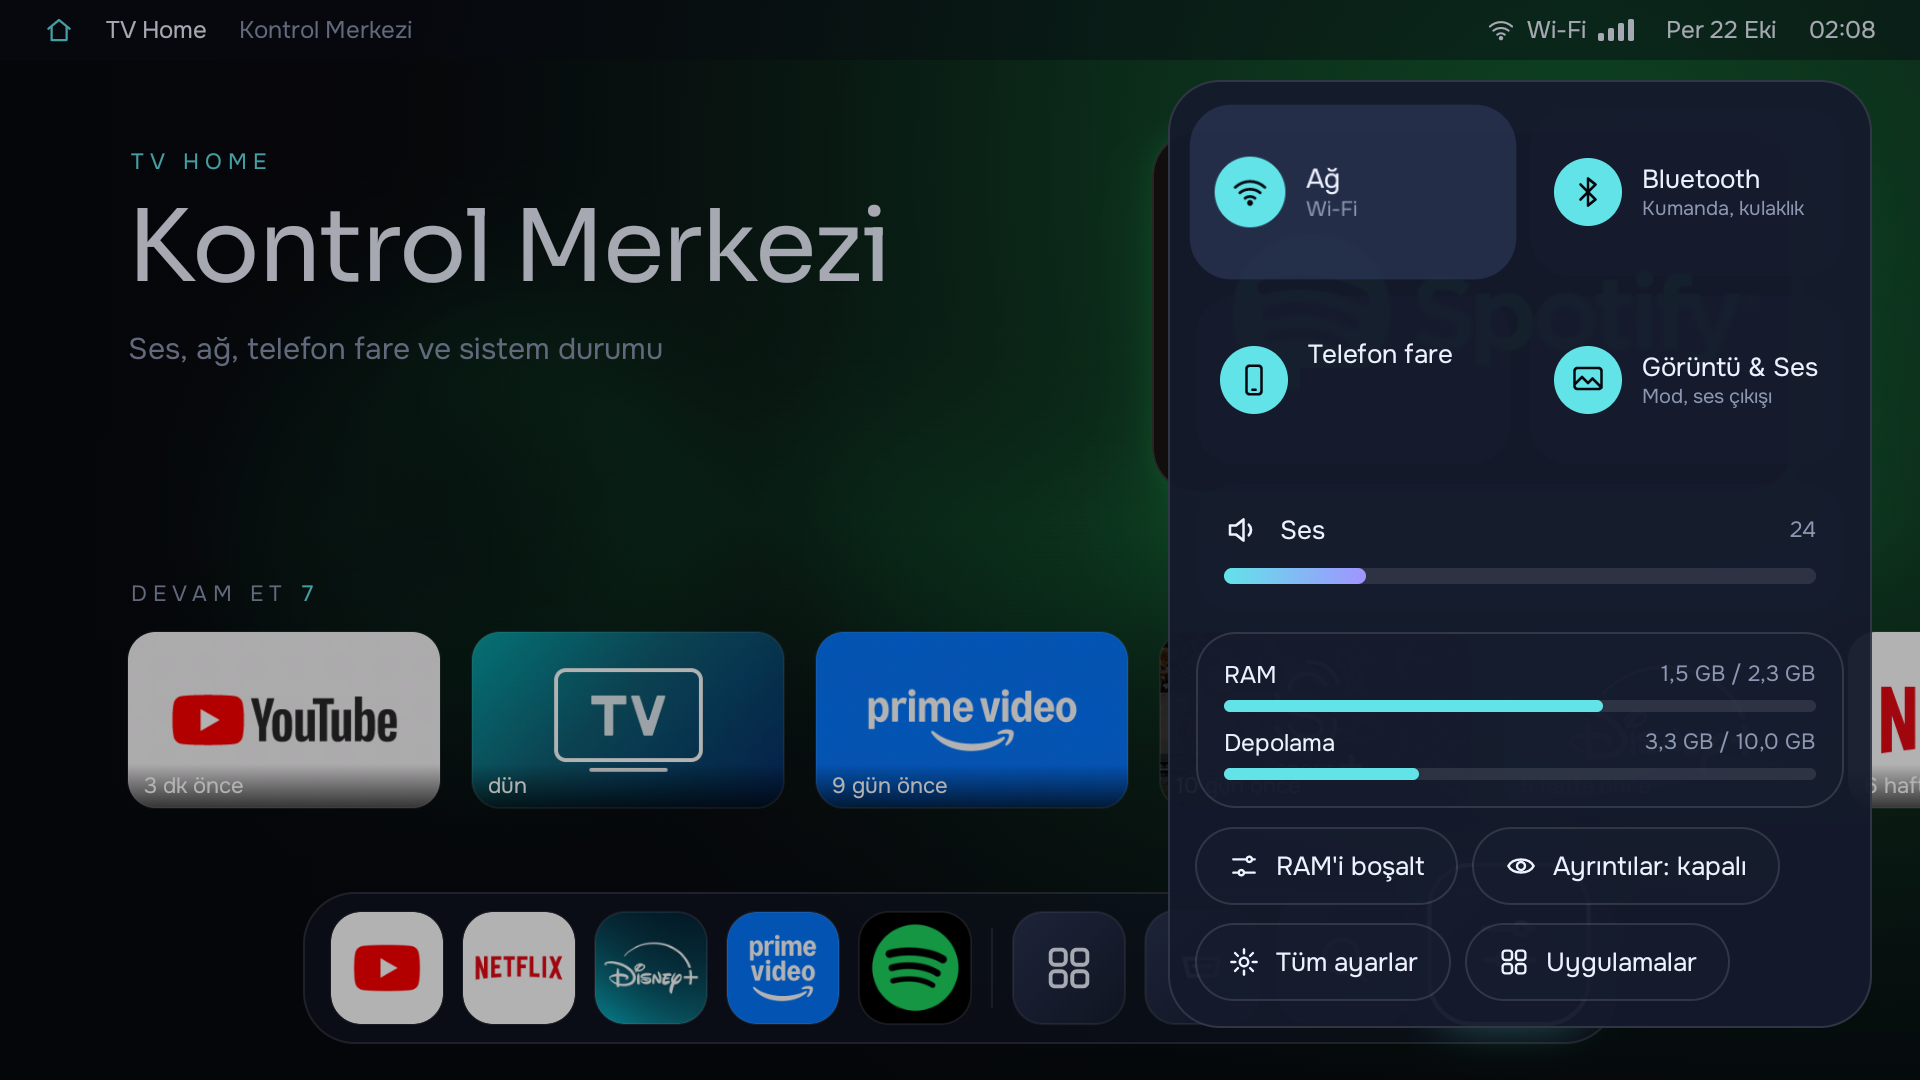
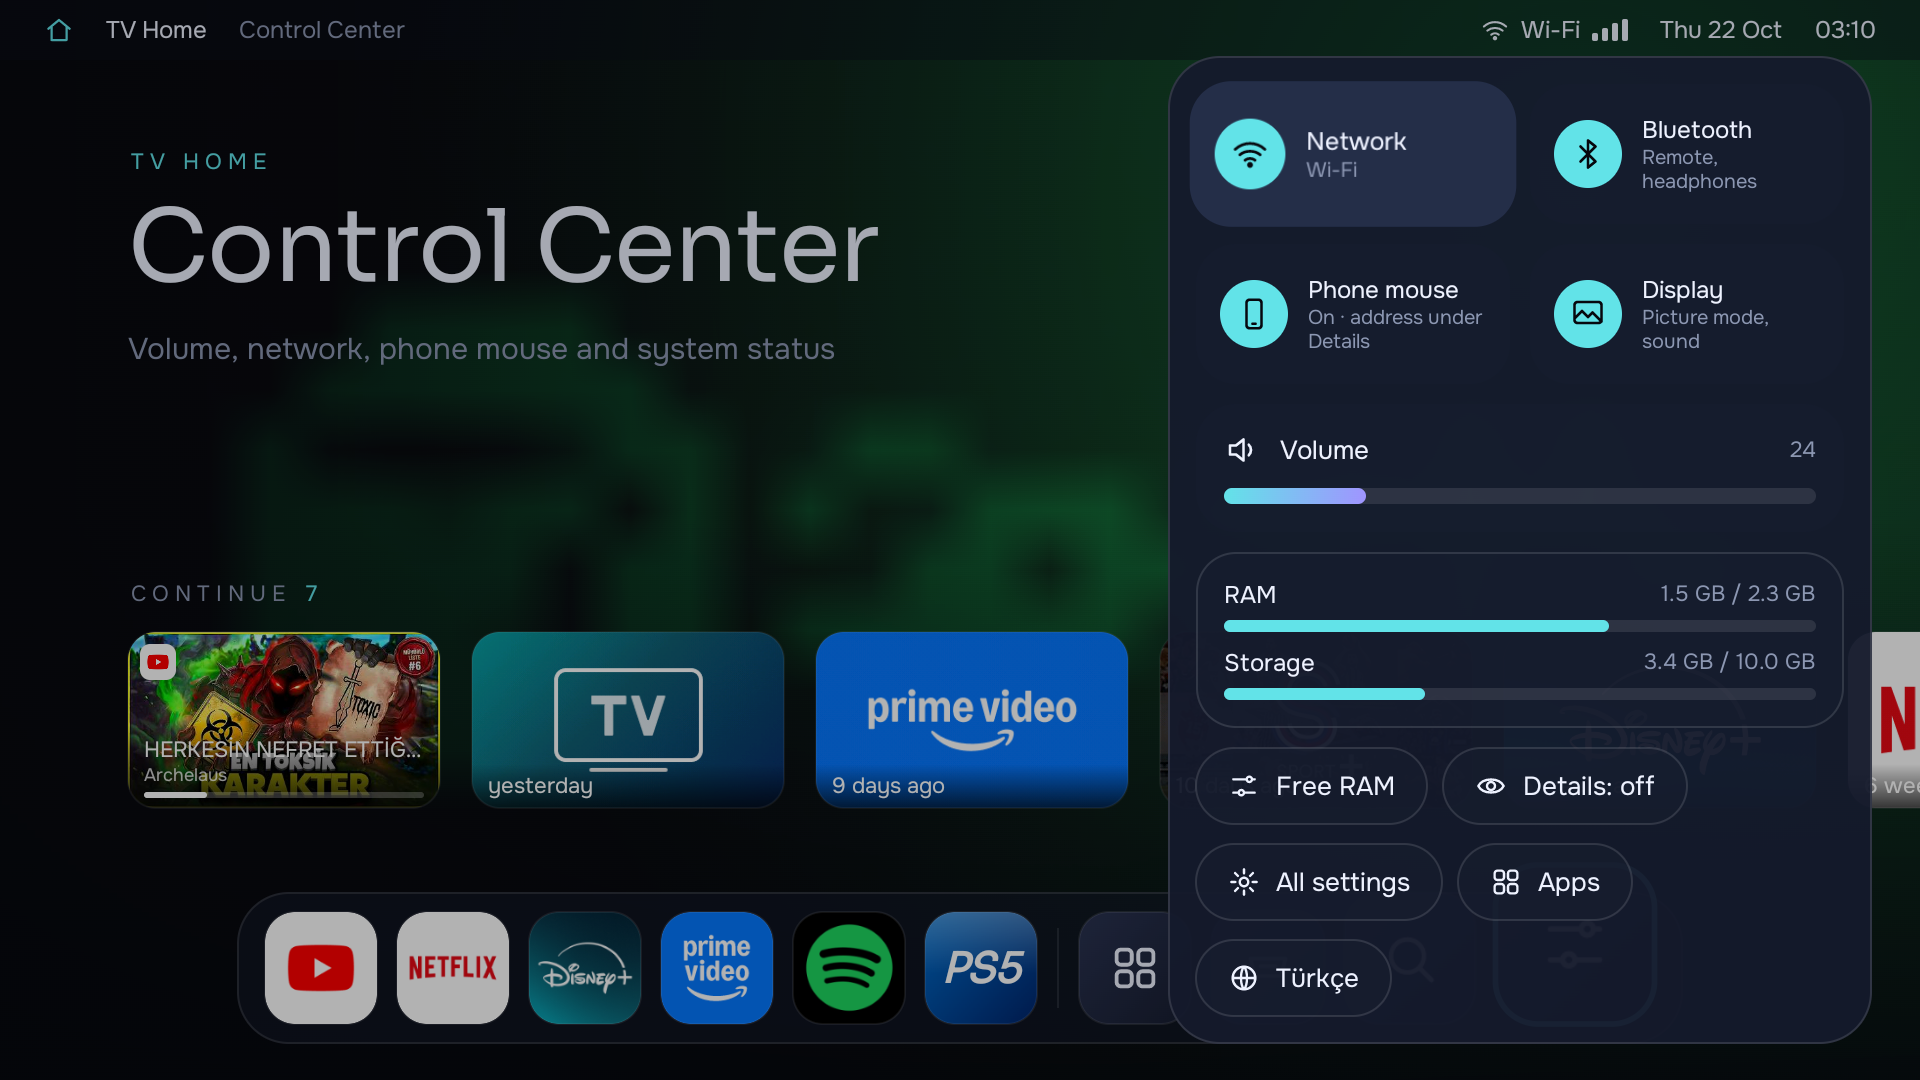
Add demo GIF and English screenshots; fit Control Center on screen
- README opens with a 22 s demo recorded on the TV
- Screenshots retaken with the English UI
- Control Center: language switch on its own row, shorter tiles so the panel fits 1080p

diff --git a/launcher/app/src/main/java/app/swiip/tvhome/ui/Overlays.kt b/launcher/app/src/main/java/app/swiip/tvhome/ui/Overlays.kt
@@ -214,7 +214,7 @@ fun ControlCenter(stats: SystemStats?, remote: RemoteHint?, prefs: HomePrefs, ac
         Column(
             Modifier
                 .align(Alignment.TopEnd)
-                .padding(top = 40.dp, end = 24.dp)
+                .padding(top = 28.dp, end = 24.dp)
                 .width(352.dp)
                 .glass(RoundedCornerShape(26.dp), Neon.Panel)
                 .padding(14.dp),
@@ -260,9 +260,10 @@ fun ControlCenter(stats: SystemStats?, remote: RemoteHint?, prefs: HomePrefs, ac
             Row(horizontalArrangement = Arrangement.spacedBy(8.dp)) {
                 PillButton(stringResource(R.string.cc_all_settings), { open(QuickAction.SETTINGS) }, icon = Glyphs.Gear)
                 PillButton(stringResource(R.string.cc_apps), { open(QuickAction.APPS) }, icon = Glyphs.Grid)
-                // Shows the language it switches to, in that language ("English" / "Türkçe").
-                if (AppLanguage.isSupported()) PillButton(stringResource(R.string.cc_language), actions::toggleLanguage, icon = Glyphs.Globe)
             }
+            // Own row: next to two other pills it was squeezed down to its icon.
+            // It shows the language it switches to, in that language ("English" / "Türkçe").
+            if (AppLanguage.isSupported()) PillButton(stringResource(R.string.cc_language), actions::toggleLanguage, icon = Glyphs.Globe)
         }
         FocusOnOpen(first)
     }
@@ -273,7 +274,8 @@ private fun ControlTile(icon: ImageVector, title: String, detail: String, onClic
     val shape = RoundedCornerShape(20.dp)
     Surface(
         onClick = onClick,
-        modifier = modifier.height(84.dp).touchable(onClick),
+        // 70dp keeps the whole panel on screen with the language row added (two-line English labels fit).
+        modifier = modifier.height(70.dp).touchable(onClick),
         shape = ClickableSurfaceDefaults.shape(shape),
         colors = ClickableSurfaceDefaults.colors(containerColor = Neon.Glass, focusedContainerColor = Neon.GlassHigh, focusedContentColor = Neon.Ink),
         scale = ClickableSurfaceDefaults.scale(focusedScale = 1.04f),
@@ -287,8 +289,8 @@ private fun ControlTile(icon: ImageVector, title: String, detail: String, onClic
             ) { Icon(icon, null, tint = Neon.Space, modifier = Modifier.size(18.dp)) }
             Spacer(Modifier.width(10.dp))
             Column {
-                Text(title, fontSize = 13.sp, fontWeight = FontWeight.SemiBold)
-                Text(detail, fontSize = 10.sp, color = Neon.Dim, lineHeight = 13.sp, maxLines = 2)
+                Text(title, fontSize = 12.sp, fontWeight = FontWeight.SemiBold, maxLines = 1, overflow = TextOverflow.Ellipsis)
+                Text(detail, fontSize = 10.sp, color = Neon.Dim, lineHeight = 12.sp, maxLines = 2, overflow = TextOverflow.Ellipsis)
             }
         }
     }

diff --git a/README.md b/README.md
@@ -4,7 +4,9 @@
 
 Built for and tested on a 2024 **Grundig Nano QLED (Google TV, Android 14, MediaTek MT5896, 2.4 GB RAM)**. It should run on any Android TV / Google TV 9+.
 
-![TV Home: continue watching a YouTube video](docs/screenshots/continue-watching.png)
+![TV Home in action: Dock magnification, app-coloured backdrop, continue watching with in-video frames, Launchpad](docs/demo.gif)
+
+<sub>Recorded on the TV itself (`adb shell screenrecord`), driven by the remote's D-pad.</sub>
 
 ---
 
@@ -23,11 +25,11 @@ Built for and tested on a 2024 **Grundig Nano QLED (Google TV, Android 14, Media
 
 <table>
 <tr>
-<td><img src="docs/screenshots/dock-ps5.png" alt="PS5 pinned to the Dock"></td>
+<td><img src="docs/screenshots/continue-watching.png" alt="Continue watching a YouTube video"></td>
 <td><img src="docs/screenshots/launchpad.png" alt="Launchpad with automatic categories"></td>
 </tr>
 <tr>
-<td align="center">PS5 pinned to the Dock, brand backdrop</td>
+<td align="center">Continue watching: title, channel, progress, frames from inside the video</td>
 <td align="center">Launchpad, filtered by focusing a category</td>
 </tr>
 <tr>
@@ -40,11 +42,11 @@ Built for and tested on a 2024 **Grundig Nano QLED (Google TV, Android 14, Media
 </tr>
 <tr>
 <td><img src="docs/screenshots/spotlight.png" alt="Spotlight search"></td>
-<td><img src="docs/screenshots/home.png" alt="Home screen"></td>
+<td><img src="docs/screenshots/dock-ps5.png" alt="PS5 pinned to the Dock"></td>
 </tr>
 <tr>
-<td align="center">Spotlight: category words find apps</td>
-<td align="center">Home: app info, recents and the Dock</td>
+<td align="center">Spotlight: "sport" finds every sports app</td>
+<td align="center">PS5 pinned to the Dock, PlayStation-blue backdrop</td>
 </tr>
 </table>
 
